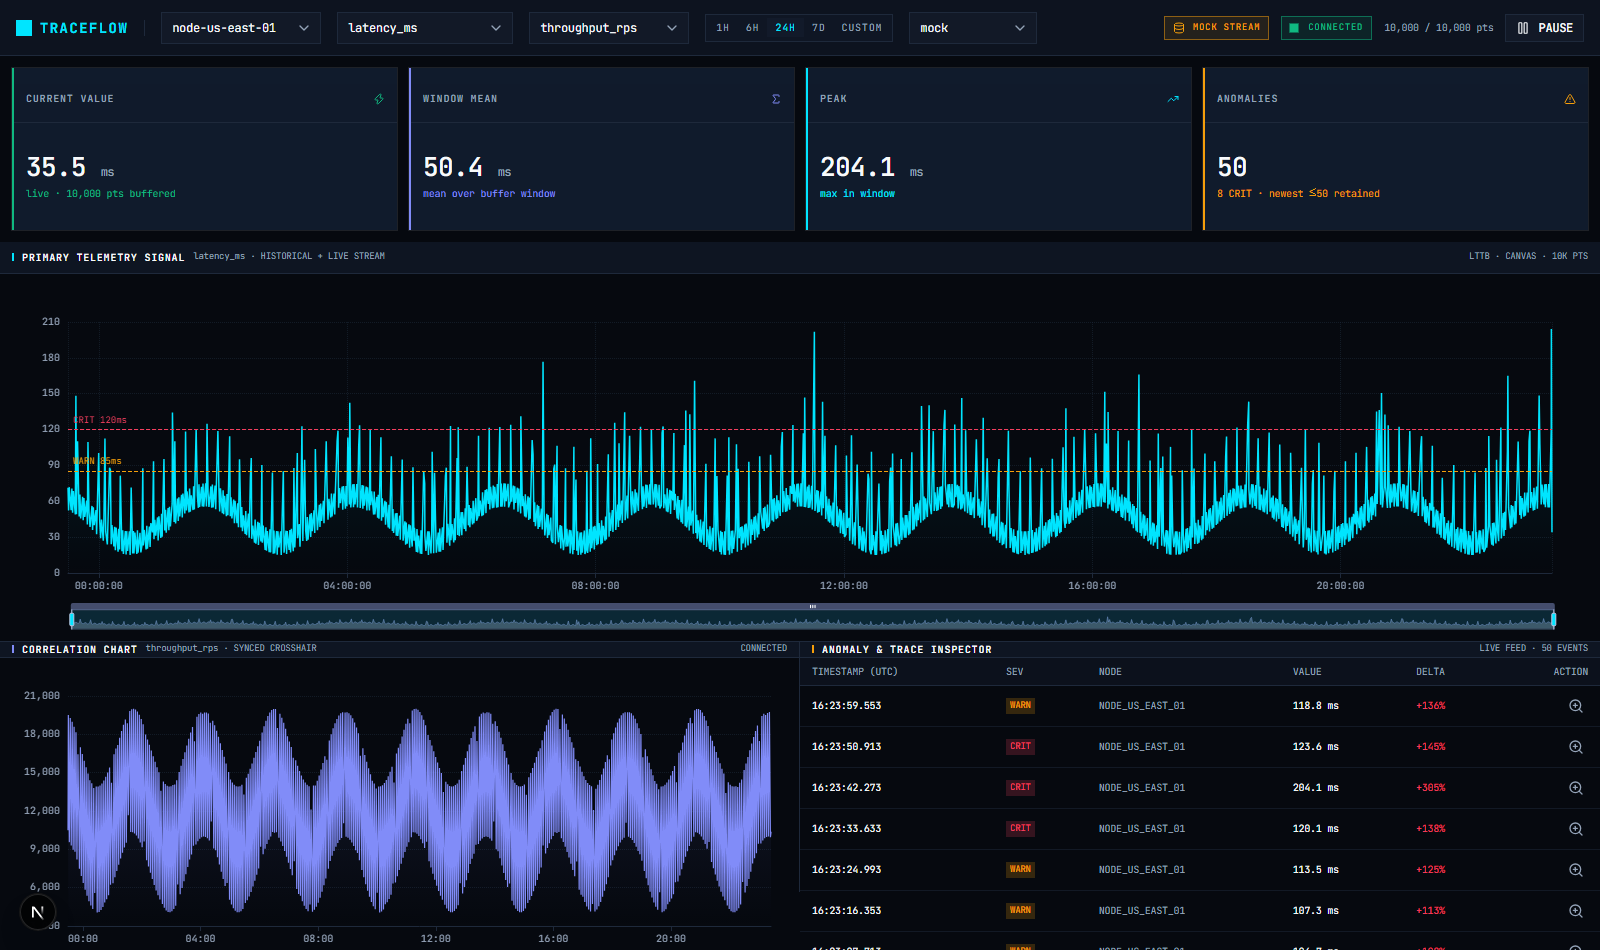
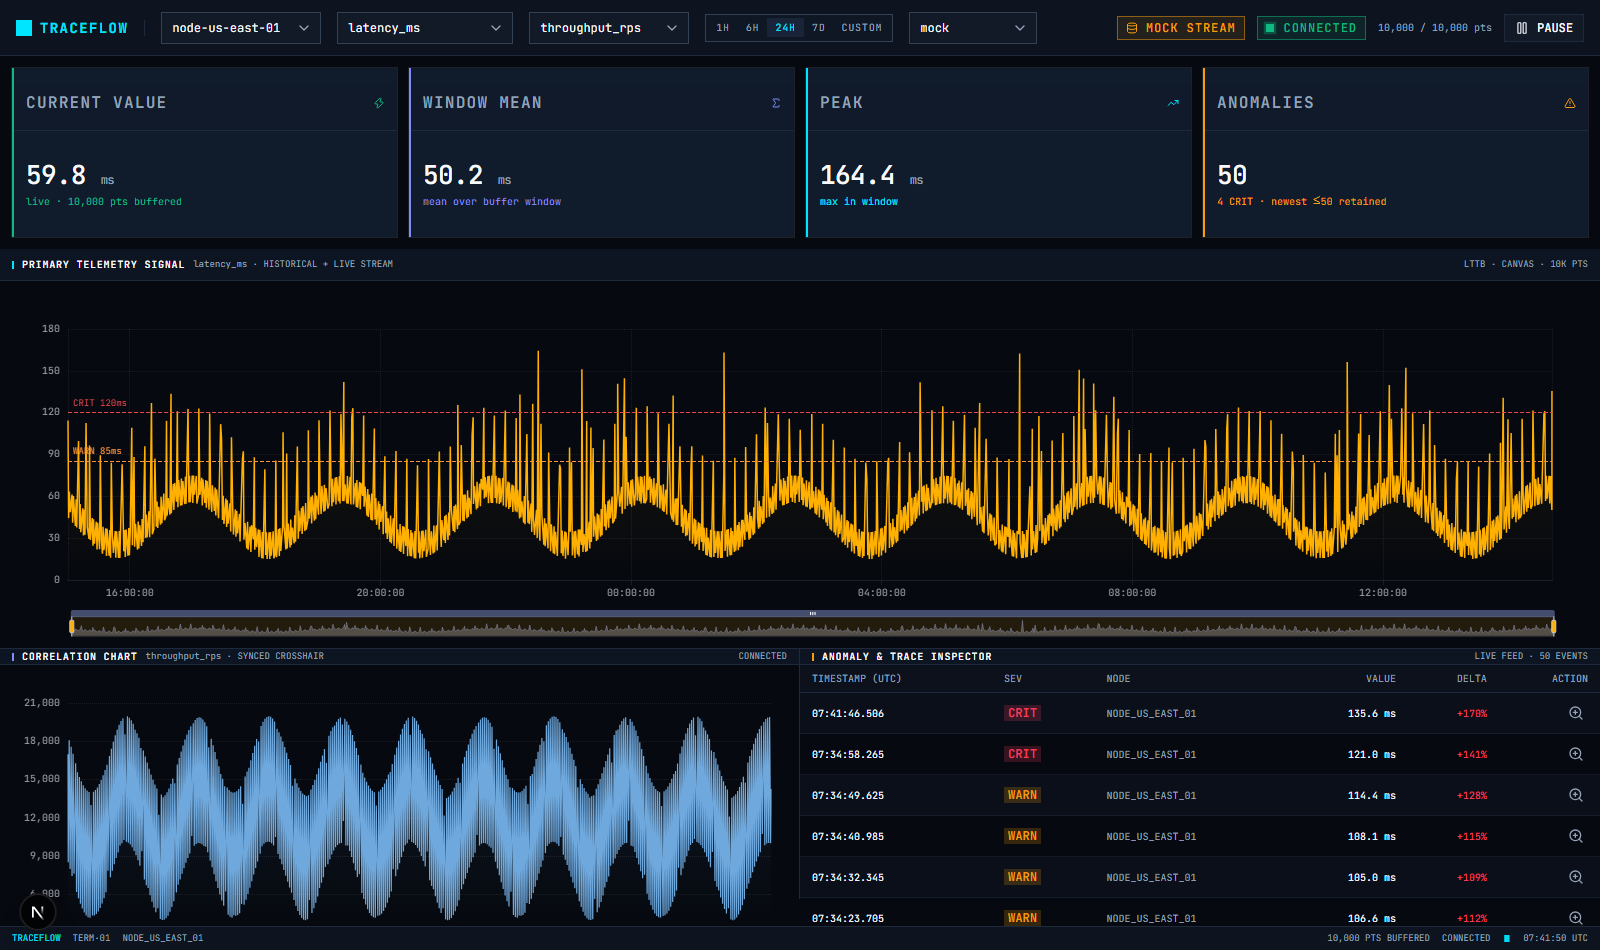
feat(ui): terminal redesign — ops console instead of generic dark dashboard
- true-black canvas + warm-neutral zinc tiers; amber #FFB000 chrome/trace;
  steel-blue correlation; orange warn; warm ivory text
- function-key range strip, bottom terminal status bar (UTC clock, cursor),
  zebra anomaly rows, right-aligned numerics
- all brand assets regenerated; DESIGN.md updated to v2 Terminal scheme

Closes ISSUE-013

diff --git a/src/components/dashboard/AnomalyStreamTable.tsx b/src/components/dashboard/AnomalyStreamTable.tsx
@@ -44,8 +44,8 @@ export function AnomalyStreamTable({ anomalies, siteId, unit, status, onInspect 
               <th className="border-b border-border px-2 py-1.5 font-normal sm:px-3">TIMESTAMP (UTC)</th>
               <th className="border-b border-border px-2 py-1.5 font-normal sm:px-3">SEV</th>
               <th className="border-b border-border px-2 py-1.5 font-normal sm:px-3">NODE</th>
-              <th className="border-b border-border px-2 py-1.5 font-normal sm:px-3">VALUE</th>
-              <th className="border-b border-border px-2 py-1.5 font-normal sm:px-3">DELTA</th>
+              <th className="border-b border-border px-2 py-1.5 font-normal text-right sm:px-3">VALUE</th>
+              <th className="border-b border-border px-2 py-1.5 font-normal text-right sm:px-3">DELTA</th>
               <th className="border-b border-border px-2 py-1.5 font-normal text-right sm:px-3">ACTION</th>
             </tr>
           </thead>
@@ -58,7 +58,7 @@ export function AnomalyStreamTable({ anomalies, siteId, unit, status, onInspect 
               </tr>
             ) : (
               anomalies.map((row) => (
-                <tr key={`${row.timestampMs}-${row.severity}`} className="border-b border-border/50 hover:bg-muted/30">
+                <tr key={`${row.timestampMs}-${row.severity}`} className="border-b border-border/50 odd:bg-muted/40 hover:bg-muted/60">
                   <td className="px-2 py-2 text-foreground sm:px-3">{fmtTs(row.timestampMs)}</td>
                   <td className="px-2 py-2 sm:px-3">
                     <Badge
@@ -71,8 +71,8 @@ export function AnomalyStreamTable({ anomalies, siteId, unit, status, onInspect 
                     </Badge>
                   </td>
                   <td className="px-2 py-2 text-muted-foreground sm:px-3">{siteId.toUpperCase().replaceAll('-', '_')}</td>
-                  <td className="px-2 py-2 text-foreground sm:px-3">{row.value.toFixed(1)} {unit}</td>
-                  <td className="px-2 py-2 text-crit sm:px-3">{fmtDelta(row.deltaPct)}</td>
+                  <td className="px-2 py-2 text-right text-foreground sm:px-3">{row.value.toFixed(1)} {unit}</td>
+                  <td className="px-2 py-2 text-right text-crit sm:px-3">{fmtDelta(row.deltaPct)}</td>
                   <td className="px-2 py-2 text-right sm:px-3">
                     <Tooltip>
                       <TooltipTrigger

diff --git a/src/components/dashboard/StatusBar.tsx b/src/components/dashboard/StatusBar.tsx
@@ -1,0 +1,39 @@
+'use client';
+
+import { useEffect, useState } from 'react';
+import type { ConnectionStatus } from '@/lib/data/contracts';
+
+interface StatusBarProps {
+  siteId: string;
+  status: ConnectionStatus;
+  points: number;
+}
+
+// Terminal status line — the authored detail that keeps the shell feeling
+// like an ops console rather than a card layout. UTC clock ticks per second.
+export function StatusBar({ siteId, status, points }: StatusBarProps) {
+  const [clock, setClock] = useState('--:--:--');
+
+  useEffect(() => {
+    const tick = () => setClock(new Date().toISOString().slice(11, 19));
+    tick();
+    const id = setInterval(tick, 1_000);
+    return () => clearInterval(id);
+  }, []);
+
+  return (
+    <footer className="flex h-6 shrink-0 items-center justify-between border-t border-border bg-card px-3 font-mono text-micro text-muted-foreground">
+      <div className="flex items-center gap-3">
+        <span className="text-primary">TRACEFLOW</span>
+        <span>TERM·01</span>
+        <span className="hidden sm:inline">{siteId.toUpperCase().replaceAll('-', '_')}</span>
+      </div>
+      <div className="flex items-center gap-3">
+        <span className="hidden sm:inline">{points.toLocaleString()} PTS BUFFERED</span>
+        <span className="uppercase">{status}</span>
+        <span aria-hidden className="animate-pulse text-primary motion-reduce:animate-none">▮</span>
+        <span>{clock} UTC</span>
+      </div>
+    </footer>
+  );
+}

diff --git a/src/app/globals.css b/src/app/globals.css
@@ -48,31 +48,34 @@
   --radius-xl: 0;
 }
 
+/* Terminal direction (ISSUE-013): true-black canvas + warm-neutral zinc
+   tiers replace the navy-blue palette. Amber #FFB000 is the brand/signal
+   key color; warn shifts orange so the two ambers stay distinguishable. */
 :root {
-  --background: #06090F;
-  --foreground: #F8FAFC;
-  --card: #0D131F;
-  --card-foreground: #F8FAFC;
-  --popover: #1A2438;
-  --popover-foreground: #F8FAFC;
-  --primary: #00E5FF;
-  --primary-foreground: #06090F;
-  --secondary: #818CF8;
-  --secondary-foreground: #F8FAFC;
-  --muted: #121A2A;
-  --muted-foreground: #94A3B8;
-  --text-dim: #475569;
-  --accent: #1A2438;
-  --accent-foreground: #F8FAFC;
-  --destructive: #F43F5E;
-  --border: #1E293B;
-  --input: #1E293B;
-  --ring: #00E5FF;
-  --live: #10B981;
-  --warn: #F59E0B;
-  --crit: #F43F5E;
-  --raised: #101B2C;
-  --edge: #334155;
+  --background: #000000;
+  --foreground: #F2EFE9;
+  --card: #0B0B0E;
+  --card-foreground: #F2EFE9;
+  --popover: #16161C;
+  --popover-foreground: #F2EFE9;
+  --primary: #FFB000;
+  --primary-foreground: #000000;
+  --secondary: #6FA8DC;
+  --secondary-foreground: #F2EFE9;
+  --muted: #111116;
+  --muted-foreground: #9C9CA6;
+  --text-dim: #55555E;
+  --accent: #1C1C22;
+  --accent-foreground: #F2EFE9;
+  --destructive: #E5484D;
+  --border: #1E1E24;
+  --input: #1E1E24;
+  --ring: #FFB000;
+  --live: #2FBF71;
+  --warn: #FB923C;
+  --crit: #E5484D;
+  --raised: #121218;
+  --edge: #33333B;
 }
 
 @layer base {

diff --git a/src/components/dashboard/PrimaryTelemetryChart.tsx b/src/components/dashboard/PrimaryTelemetryChart.tsx
@@ -54,7 +54,7 @@ export function PrimaryTelemetryChart({ chartRef, metric, thresholdWarning, thre
       },
       dataZoom: [
         { type: 'inside', throttle: 50 },
-        { type: 'slider', height: 20, bottom: 10, borderColor: CHART_COLORS.borderAccent, backgroundColor: CHART_COLORS.panel, fillerColor: 'rgba(0, 229, 255, 0.1)', handleStyle: { color: CHART_COLORS.accent }, textStyle: { color: CHART_COLORS.textSecondary, fontFamily: CHART_FONT, fontSize: 9 } }
+        { type: 'slider', height: 20, bottom: 10, borderColor: CHART_COLORS.borderAccent, backgroundColor: CHART_COLORS.panel, fillerColor: 'rgba(255, 176, 0, 0.1)', handleStyle: { color: CHART_COLORS.accent }, textStyle: { color: CHART_COLORS.textSecondary, fontFamily: CHART_FONT, fontSize: 9 } }
       ],
       series: [
         {
@@ -73,8 +73,8 @@ export function PrimaryTelemetryChart({ chartRef, metric, thresholdWarning, thre
             color: {
               type: 'linear', x: 0, y: 0, x2: 0, y2: 1,
               colorStops: [
-                { offset: 0, color: 'rgba(0, 229, 255, 0.16)' },
-                { offset: 1, color: 'rgba(0, 229, 255, 0)' },
+                { offset: 0, color: 'rgba(255, 176, 0, 0.14)' },
+                { offset: 1, color: 'rgba(255, 176, 0, 0)' },
               ],
             },
           },

diff --git a/src/lib/chart-theme.ts b/src/lib/chart-theme.ts
@@ -2,19 +2,19 @@
 // and cannot read CSS variables, so chart colors are centralized here to keep
 // them in sync with `src/app/globals.css` / `.devin/stitch/DESIGN.md`.
 export const CHART_COLORS = {
-  surface: '#06090F',
-  panel: '#0D131F',
-  panel2: '#121A2A',
-  panel3: '#1A2438',
-  border: '#1E293B',
-  borderAccent: '#334155',
-  gridLine: 'rgba(30, 41, 59, 0.55)',
-  textPrimary: '#F8FAFC',
-  textSecondary: '#94A3B8',
-  accent: '#00E5FF',
-  secondary: '#818CF8',
-  warn: '#F59E0B',
-  crit: '#F43F5E',
+  surface: '#000000',
+  panel: '#0B0B0E',
+  panel2: '#111116',
+  panel3: '#1C1C22',
+  border: '#1E1E24',
+  borderAccent: '#33333B',
+  gridLine: 'rgba(38, 38, 44, 0.7)',
+  textPrimary: '#F2EFE9',
+  textSecondary: '#9C9CA6',
+  accent: '#FFB000',
+  secondary: '#6FA8DC',
+  warn: '#FB923C',
+  crit: '#E5484D',
 } as const;
 
 export const CHART_FONT = 'JetBrains Mono';

diff --git a/src/components/dashboard/DashboardContent.tsx b/src/components/dashboard/DashboardContent.tsx
@@ -9,6 +9,7 @@ import { KpiCards } from './KpiCards';
 import { PrimaryTelemetryChart } from './PrimaryTelemetryChart';
 import { SyncedCorrelationChart } from './SyncedCorrelationChart';
 import { AnomalyStreamTable } from './AnomalyStreamTable';
+import { StatusBar } from './StatusBar';
 import type { EChartsCoreInstance } from '@/lib/echarts-setup';
 
 const INSPECT_WINDOW_MS = 120_000;
@@ -102,6 +103,8 @@ export function DashboardContent() {
           />
         </div>
       </div>
+
+      <StatusBar siteId={params.siteId} status={primary.status} points={primary.stats.count} />
     </>
   );
 }

diff --git a/src/components/dashboard/SyncedCorrelationChart.tsx b/src/components/dashboard/SyncedCorrelationChart.tsx
@@ -57,8 +57,8 @@ export function SyncedCorrelationChart({ chartRef, metric, status }: SyncedCorre
           color: {
             type: 'linear', x: 0, y: 0, x2: 0, y2: 1,
             colorStops: [
-              { offset: 0, color: 'rgba(129, 140, 248, 0.18)' },
-              { offset: 1, color: 'rgba(129, 140, 248, 0)' },
+              { offset: 0, color: 'rgba(111, 168, 220, 0.16)' },
+              { offset: 1, color: 'rgba(111, 168, 220, 0)' },
             ],
           },
         },

diff --git a/e2e/dashboard.spec.ts b/e2e/dashboard.spec.ts
@@ -10,7 +10,7 @@ test('should render dashboard shell and mount canvas without errors', async ({ p
   await page.goto('/?mode=mock');
 
   // Verify header elements
-  await expect(page.locator('text=TraceFlow')).toBeVisible();
+  await expect(page.locator('text=TraceFlow').first()).toBeVisible();
   await expect(page.locator('text=node-us-east-01').first()).toBeVisible();
   await expect(page.locator('button', { hasText: '24h' }).first()).toBeVisible();
 

diff --git a/.devin/stitch/DESIGN.md b/.devin/stitch/DESIGN.md
@@ -141,24 +141,28 @@ The visual style combines technical minimalism with high-precision instrumentati
 
 ## Colors
 
+> **v2 — Terminal direction (ISSUE-013):** the palette below supersedes the
+> original navy/cyan scheme. The shell now reads as an ops terminal:
+> true-black canvas, warm-neutral zinc tiers, amber key-color chrome.
+
 ### Surface Tiers
-- **Canvas Base (`#06090F`):** Deep space pitch; foundational void for all monitors, viewports, and background grids.
-- **Surface Level 1 (`#0D131F`):** Structural panels, telemetry dock sidebars, persistent mastheads, and dock matrices.
-- **Surface Level 2 (`#121A2A`):** Focused modules, interactive instrument cells, nested metric cards, and table headers.
-- **Surface Level 3 (`#1A2438`):** Hover states, active segmented switches, popovers, and elevated modal panels.
+- **Canvas Base (`#000000`):** True black terminal void for all monitors, viewports, and background grids.
+- **Surface Level 1 (`#0B0B0E`):** Structural panels, telemetry dock sidebars, persistent mastheads, and dock matrices.
+- **Surface Level 2 (`#111116`):** Focused modules, interactive instrument cells, nested metric cards, and table headers.
+- **Surface Level 3 (`#1C1C22`):** Hover states, active segmented switches, popovers, and elevated modal panels.
 
 ### Structural Borders
-- **Border Default (`#1E293B`):** 1px hairline division for non-critical card partitions, grid channels, and frame lines.
-- **Border Accent / Active (`#334155`):** 1px hairline for focused panel boundaries, active inputs, and divider lines across high-density layouts.
+- **Border Default (`#1E1E24`):** 1px hairline division for non-critical card partitions, grid channels, and frame lines.
+- **Border Accent / Active (`#33333B`):** 1px hairline for focused panel boundaries, active inputs, and divider lines across high-density layouts.
 
 ### Telemetry Signal Accents
-- **Signal Wave Cyan (`#00E5FF`):** Primary telemetry trace, active scrubber cursors, targeted crosshairs, selection highlights.
-- **Signal Trace Violet (`#818CF8`):** Secondary delta streams, reference wave overlays, auxiliary sensor channels.
-- **Live Pulse Emerald (`#10B981`):** Nominal telemetry states, live 60FPS stream heartbeats, steady-state telemetry feeds.
-- **Warning Gold (`#F59E0B`):** Threshold ceiling breaches, margin warnings, non-fatal anomalies.
-- **Anomaly Crimson (`#F43F5E`):** Critical aborts, terminal deviations, critical sensor alerts, instantaneous dropouts.
+- **Signal Key Amber (`#FFB000`):** Brand mark, primary telemetry trace, active scrubber cursors, selection highlights, function-key active states.
+- **Signal Trace Steel (`#6FA8DC`):** Secondary delta streams, reference wave overlays, auxiliary sensor channels.
+- **Live Pulse Green (`#2FBF71`):** Nominal telemetry states, live stream heartbeats, steady-state feeds.
+- **Warning Orange (`#FB923C`):** Threshold ceiling breaches, margin warnings, non-fatal anomalies — shifted orange to stay distinct from brand amber.
+- **Anomaly Red (`#E5484D`):** Critical aborts, terminal deviations, critical sensor alerts, instantaneous dropouts.
 
 ### Typography & Foreground
-- **Text Primary (`#F8FAFC`):** Direct numeric readouts, tactical state indicators, primary labels.
-- **Text Secondary (`#94A3B8`):** Axis labels, sub-metrics, stationary units, column definitions.
-- **Text Muted (`#475569`):** Disabled parameters, secondary grid markings, baseline ticks.
+- **Text Primary (`#F2EFE9`):** Warm ivory — direct numeric readouts, tactical state indicators, primary labels.
+- **Text Secondary (`#9C9CA6`):** Axis labels, sub-metrics, stationary units, column definitions.
+- **Text Muted (`#55555E`):** Disabled parameters, secondary grid markings, baseline ticks.

diff --git a/docs/issues/013-terminal-redesign.md b/docs/issues/013-terminal-redesign.md
@@ -1,0 +1,32 @@
+# ISSUE-013 — Terminal redesign (de-AI-ify)
+
+**Status:** 🟢 Done
+**Branch:** `fix/issue-013-terminal-redesign`
+**Found by:** user feedback — the navy + neon-cyan + caps-everywhere shell read as generic AI-generated dashboard.
+
+## Concept — "ops terminal, not SaaS dashboard"
+
+Reference points: Bloomberg terminal, Tektronix scopes, real SCADA consoles — authored, functional, zero decoration. Every color keeps a semantic job; the signature elements are the function-key range strip and the bottom status line.
+
+## Changes
+
+| Area | Before | After |
+|---|---|---|
+| Canvas | `#06090F` navy | `#000000` true black |
+| Surfaces | blue-tinted tiers | warm-neutral zinc tiers (`#0B0B0E`/`#111116`/`#1C1C22`/`#121218`) |
+| Primary/brand | cyan `#00E5FF` | amber `#FFB000` (logo, primary trace, active keys, ring) |
+| Secondary | violet `#818CF8` | steel blue `#6FA8DC` (correlation trace) |
+| Warn | gold `#F59E0B` | orange `#FB923C` — distinct from brand amber |
+| Live/Crit | `#10B981`/`#F43F5E` | `#2FBF71`/`#E5484D` terminal green/red |
+| Text | cool `#F8FAFC`/`#94A3B8`/`#475569` | warm `#F2EFE9`/`#9C9CA6`/`#55555E` |
+| Range control | pill buttons | function-key strip `[1H] [6H] [24H] [7D] [CUSTOM]`, active = amber block |
+| Shell | header only | + bottom `StatusBar`: TERM·01, node id, pts buffered, status, blinking `▮` cursor, live UTC clock |
+| Wordmark | static | + blinking block cursor `▮` (motion-reduce safe) |
+| Anomaly table | flat rows | zebra rows (`odd:bg-muted/40`), VALUE/DELTA right-aligned tabular |
+| Assets | cyan palette | `icon.svg`, `logo.svg`, `hero.png`, `mobile.png`, `zoom-inspect.png`, `opengraph-image.png`, `live-demo.gif` all regenerated |
+| DESIGN.md | navy spec | v2 Terminal palette section (supersedes original scheme) |
+
+## Verification
+
+- lint / typecheck / vitest 29 / playwright 3 — all green (spec fixed: `text=TraceFlow` → `.first()` for new footer wordmark)
+- Screenshots verified at 1600×950 and 390×844: amber trace, zebra table, `[24H]` key active, status bar clock ticking

diff --git a/CHANGELOG.md b/CHANGELOG.md
@@ -5,6 +5,21 @@ versioning follows SemVer.
 
 ## [Unreleased]
 
+### Changed
+- **Terminal redesign (ISSUE-013):** palette moved from navy + neon cyan to
+  true-black canvas, warm-neutral zinc surface tiers, amber `#FFB000`
+  chrome/trace, steel-blue correlation, orange warn, warm ivory text —
+  DESIGN.md updated to the v2 Terminal scheme
+- Range selector renders as a function-key strip `[1H]…[CUSTOM]` with an
+  amber active key; wordmark gains a blinking block cursor (ISSUE-013)
+- Anomaly table uses zebra rows and right-aligned numeric columns (ISSUE-013)
+- All brand assets regenerated in the new palette (icon, logo, hero, mobile,
+  zoom-inspect, OG image, live-demo GIF) (ISSUE-013)
+
+### Added
+- Bottom terminal status bar: `TERM·01`, node id, buffered point count,
+  connection status, blinking cursor, live UTC clock (ISSUE-013)
+
 ### Fixed
 - Icon-only ZoomIn button now has `aria-label`; decorative icons marked
   `aria-hidden`; status badge is `aria-live` (ISSUE-012)

diff --git a/docs/issues/README.md b/docs/issues/README.md
@@ -17,6 +17,7 @@ files live in this directory, and status is mirrored here and in `CHANGELOG.md`.
 | [ISSUE-010](010-border-icon-semantics.md) | Interactive controls indistinguishable from structural borders; mismatched KPI icons | Low | 🟢 Done | `fix/issue-010-border-icon-semantics` |
 | [ISSUE-011](011-design-system-completeness.md) | Spec gaps: accent tier, untokenized type scale, blanket mono tracking, dead tooltip | Low | 🟢 Done | `fix/issue-011-design-tokens` |
 | [ISSUE-012](012-a11y-edge-polish.md) | a11y names/hidden icons, dim-contrast misuse, stale-series flash, loose URL params | Low | 🟢 Done | `fix/issue-012-a11y-edge` |
+| [ISSUE-013](013-terminal-redesign.md) | Redesign: navy/cyan AI-look → ops-terminal direction (black canvas, amber chrome, status line) | Medium | 🟢 Done | `fix/issue-013-terminal-redesign` |
 
 **Status legend:** 🔵 Open · 🟡 In progress · 🟢 Done (merged) · ⚪ Won't fix
 
